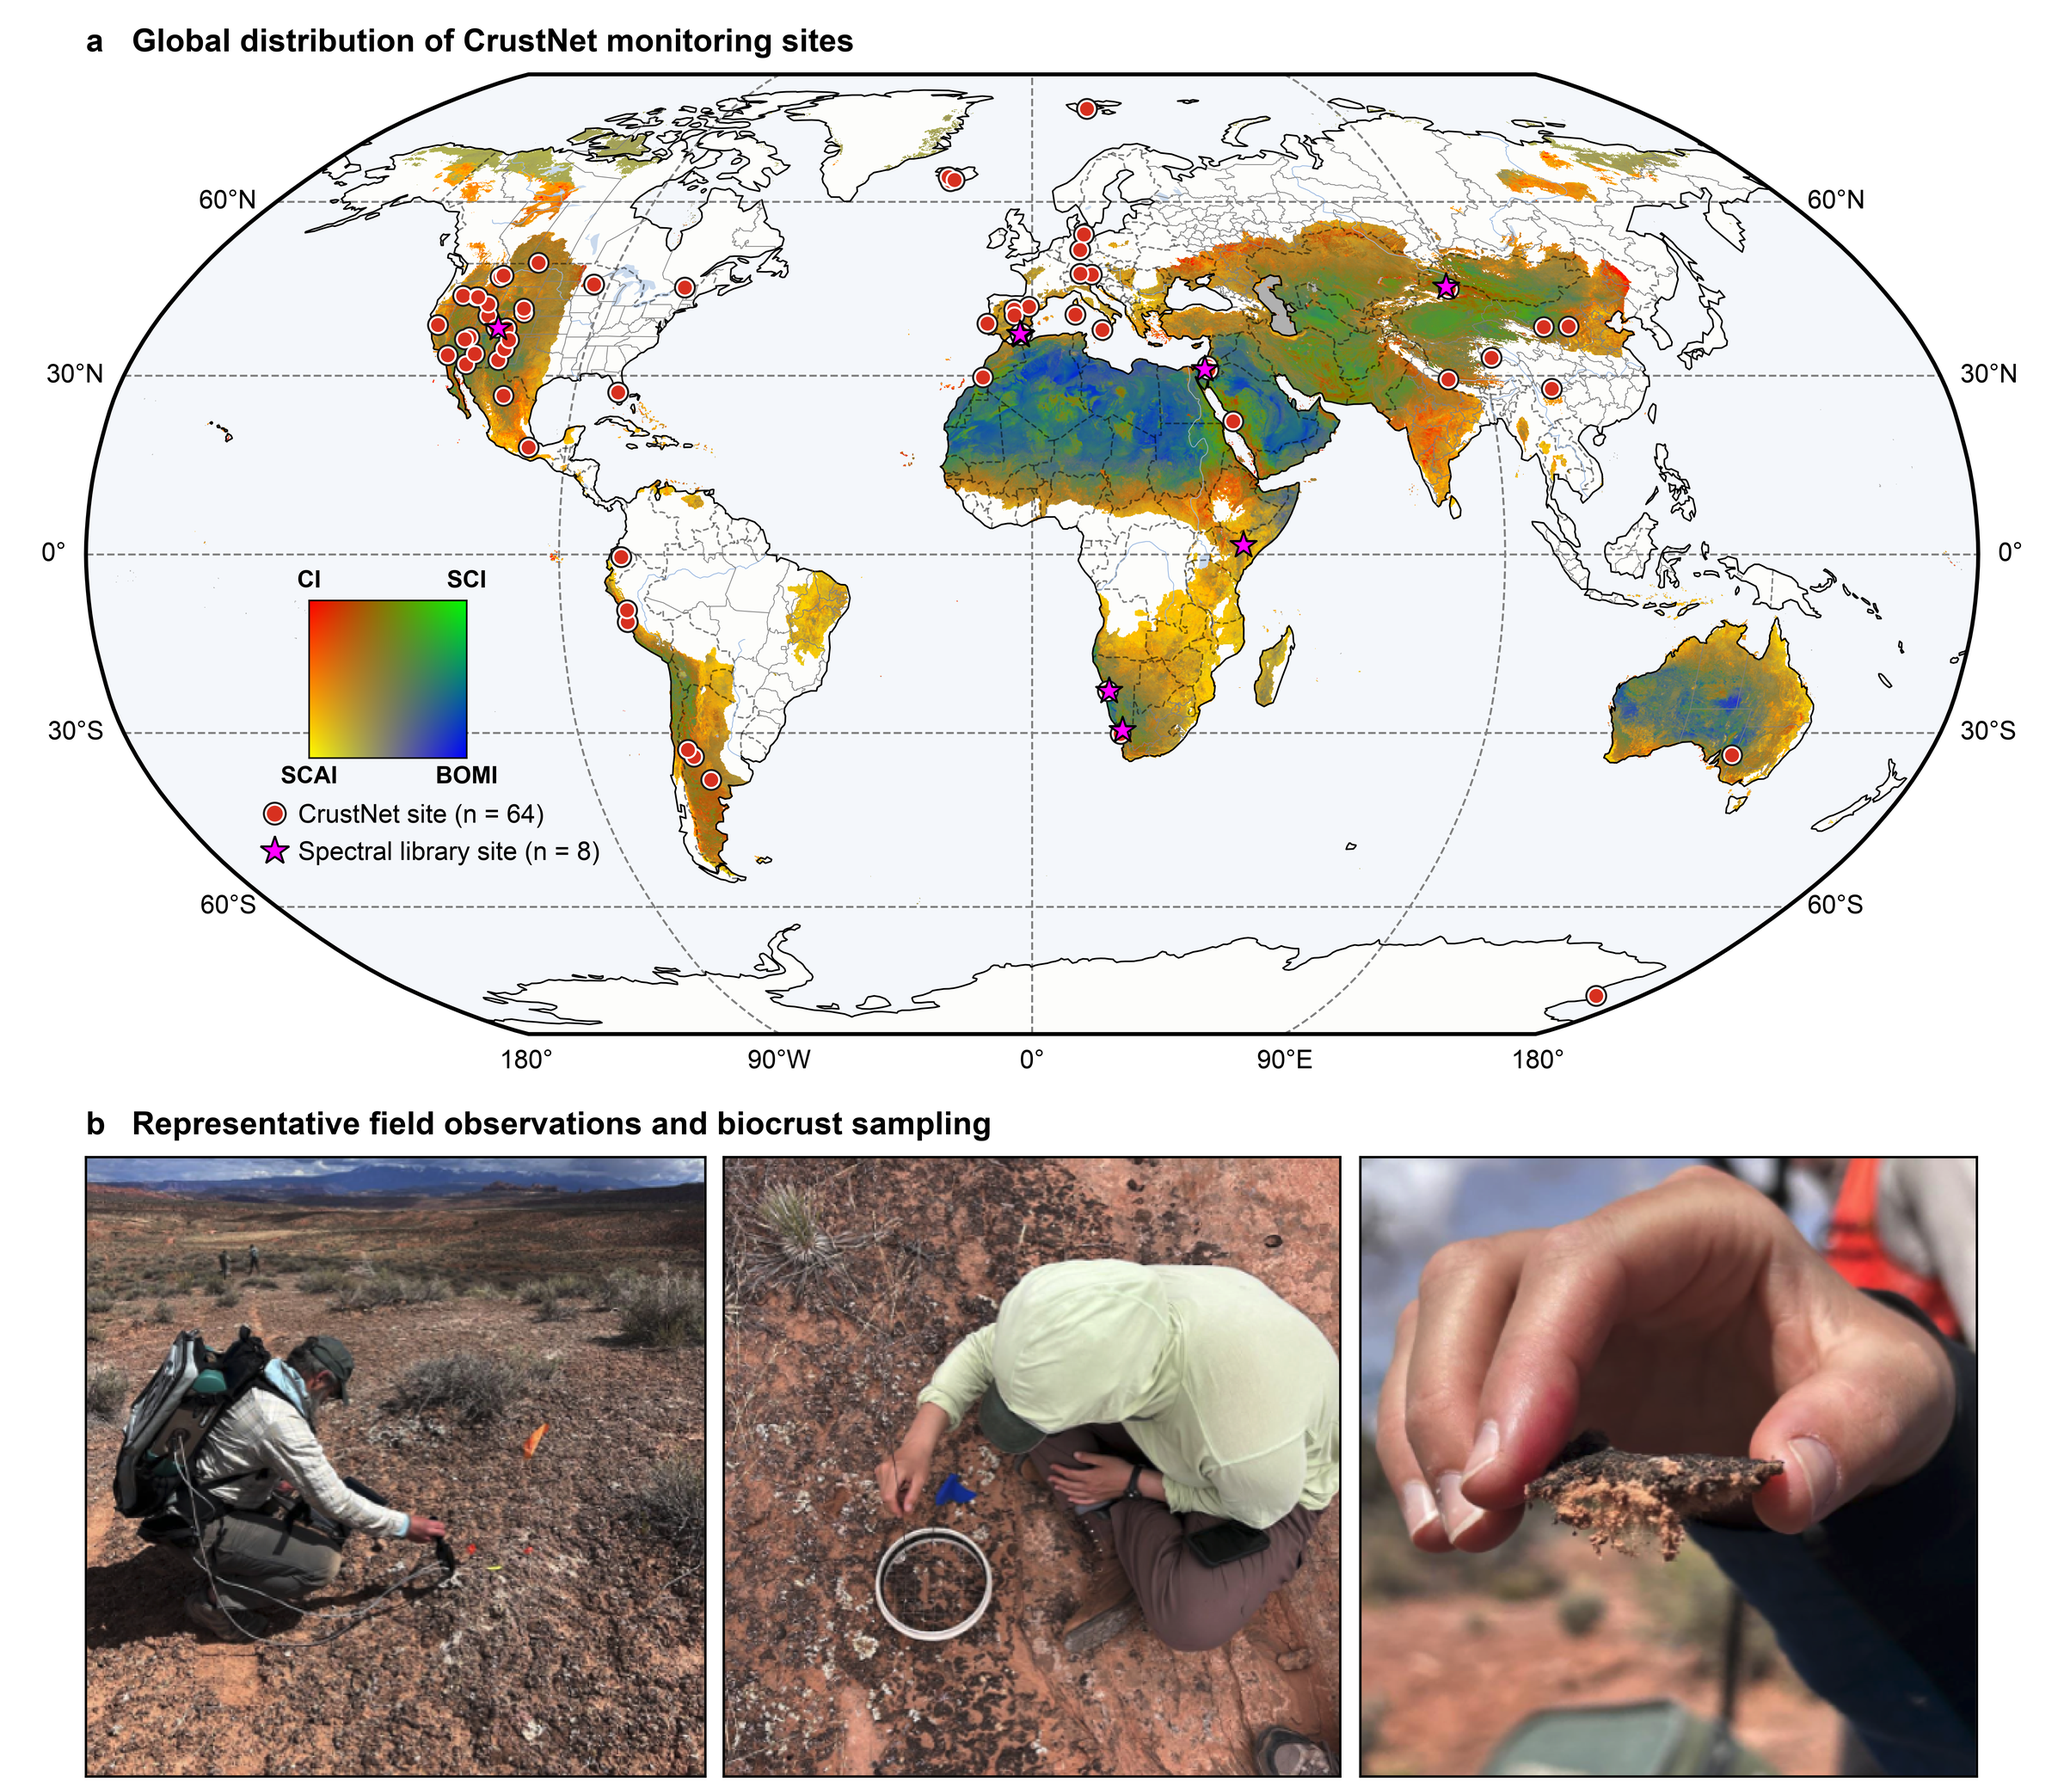
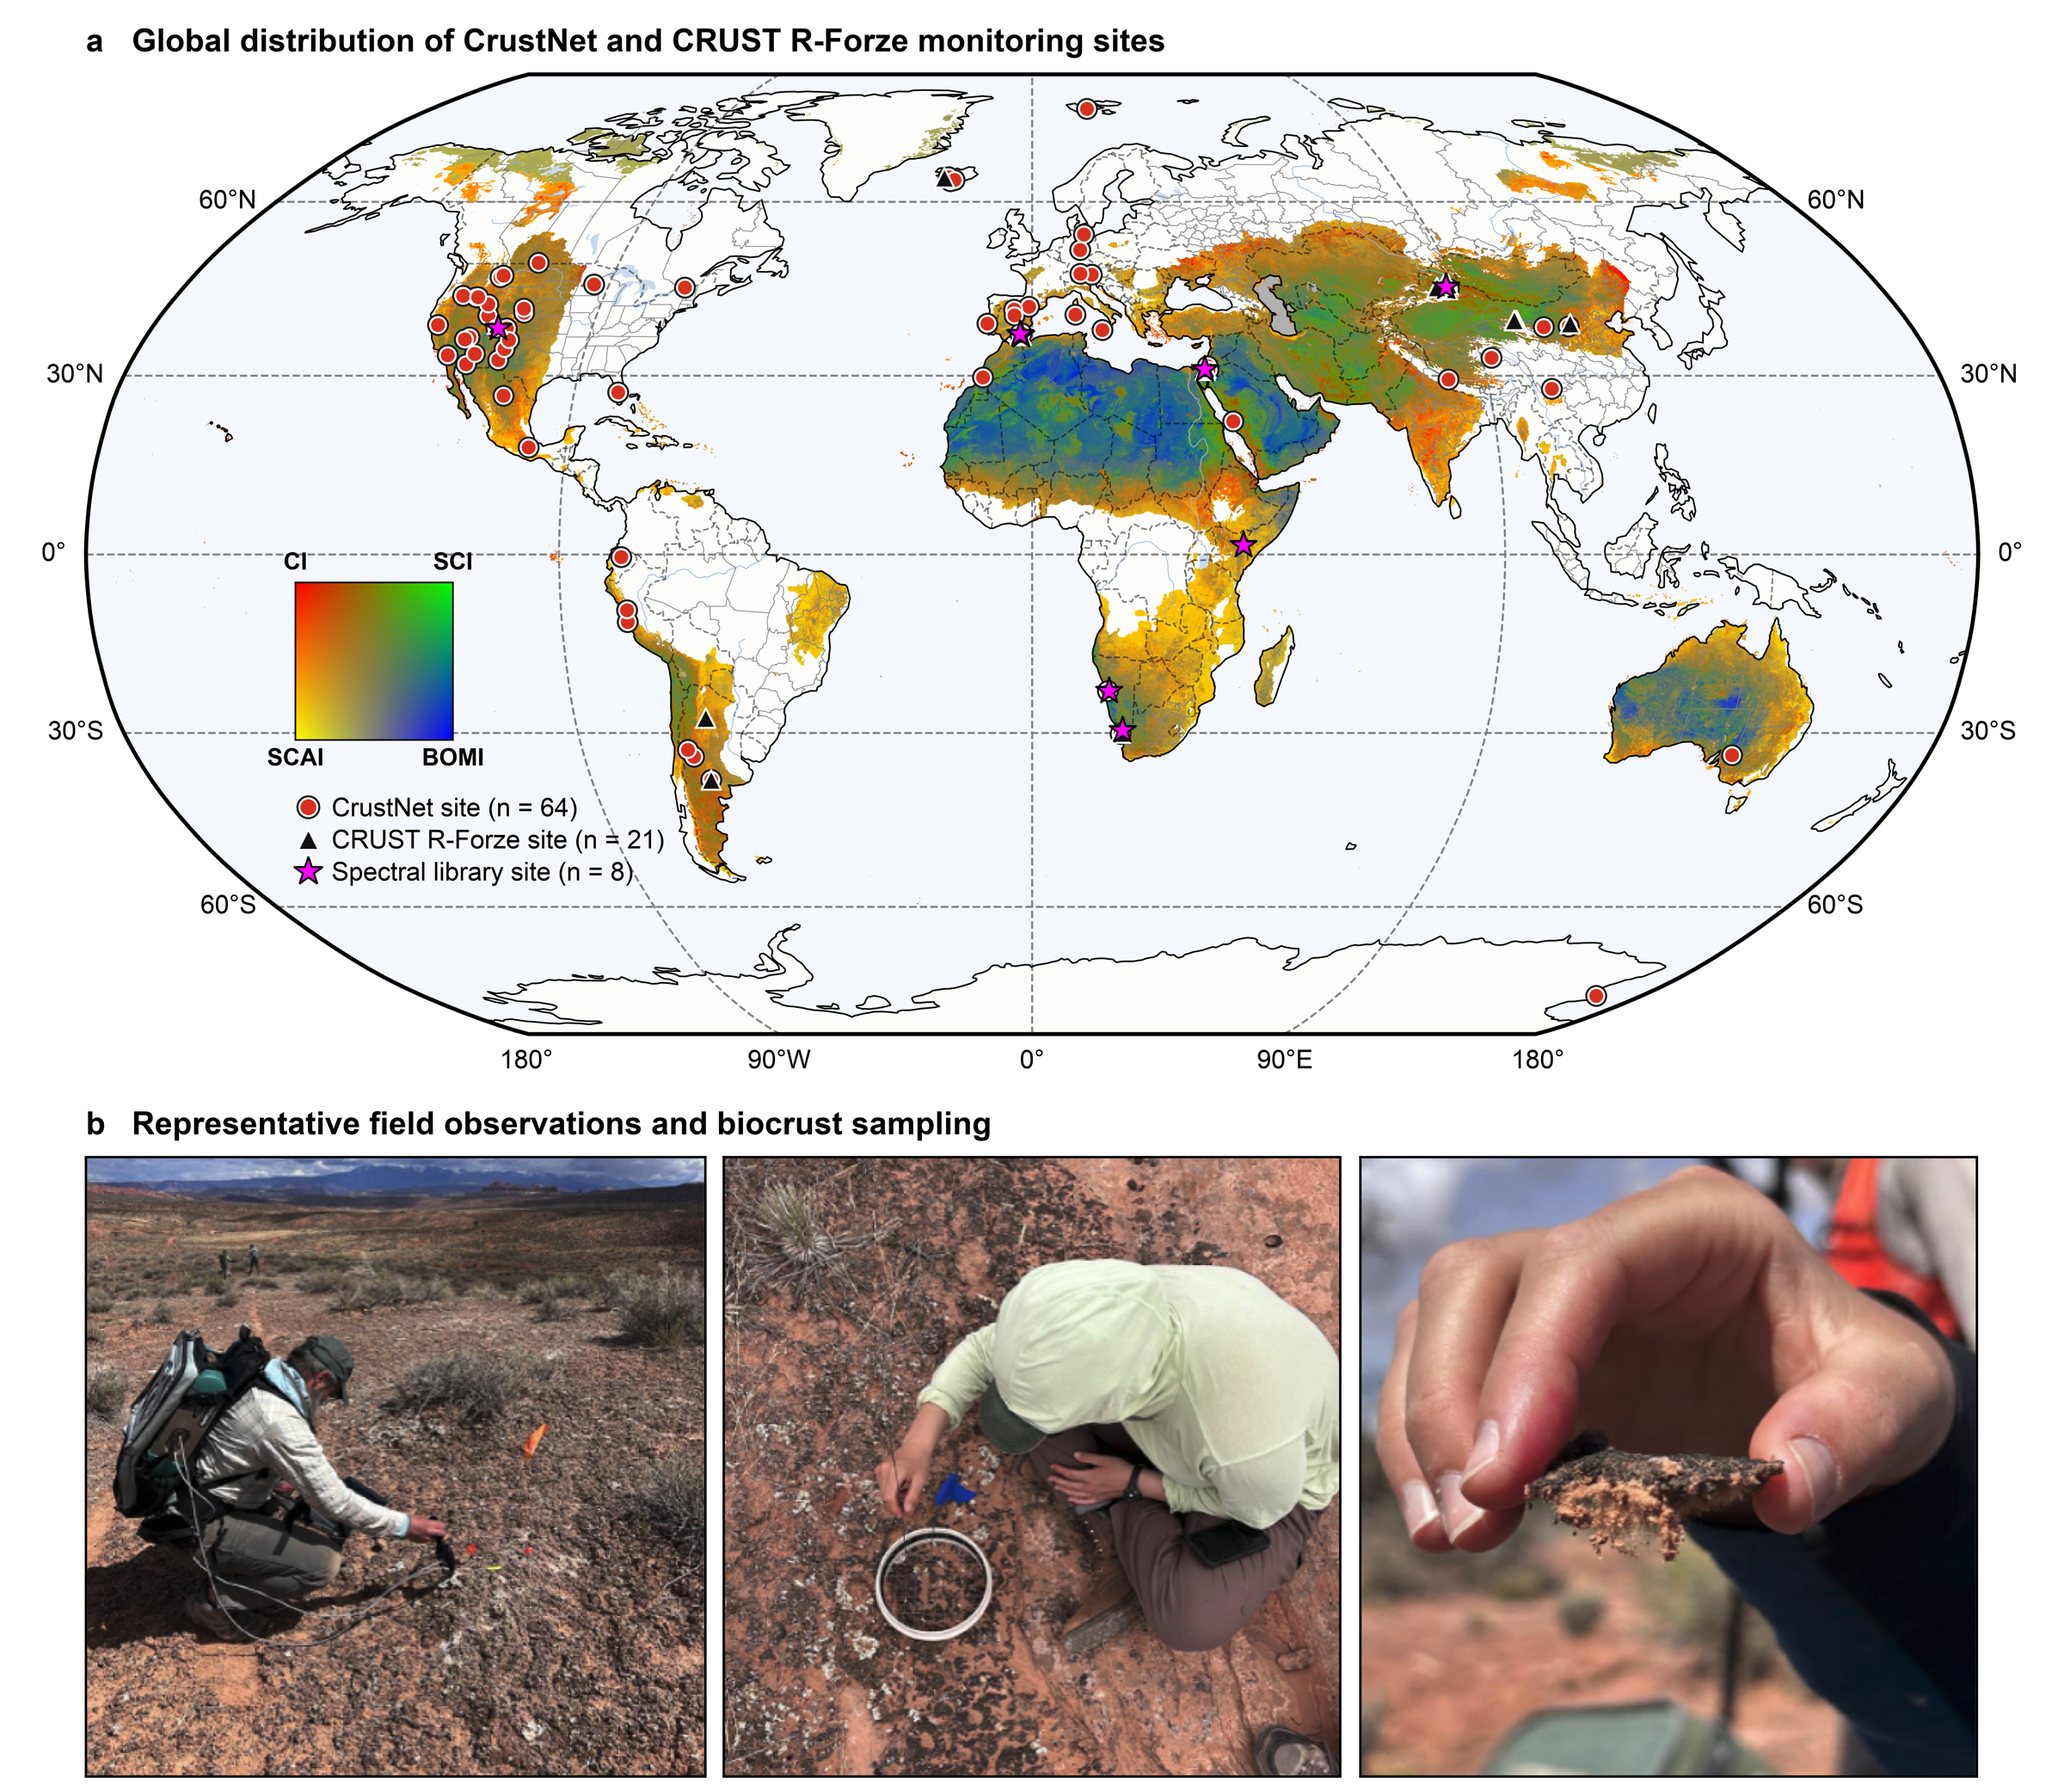
update

Changed region(s): [[0.125, 0.3078, 0.3125, 0.4925], [0.3125, 0.0, 0.5625, 0.0308]]

diff --git a/src_code/plot_fig8.py b/src_code/plot_fig8.py
@@ -1,13 +1,18 @@
-"""Figure 8: global distribution of CrustNet monitoring sites and representative field activities.
+"""Figure 8: global distribution of biocrust monitoring sites and representative field activities.
 
-a  CrustNet sites (n = 64) over the PACE OCI four-index composite of Fig. 5a (May 2025 monthly composite,
-   drylands only, same colour key); all sites are shown, including those outside the drylands
+a  CrustNet sites (n = 64), CRUST R-Forze sites (n = 21) and the spectral-library sites of Fig. 3 over the
+   PACE OCI four-index composite of Fig. 5a (May 2025 monthly composite, drylands only, same colour key);
+   all sites are shown, including those outside the drylands
 b  representative field activities at CrustNet sites (three photographs)
 
 Data:
   1_data/crustnet_sites.csv          site codes and coordinates (columns: code, lat, lon), extracted from the
                                      CrustNet node map (https://crustnet.org/CrustNet_Map5.html -> embedded
                                      leaflet/htmlwidgets payload)
+  1_data/8_Fig8_data/sites_coordinates_library.xlsx
+                                     CRUST R-Forze plots (columns: Country, Site, zone, Longitud, Latitud,
+                                     Altitude); the Moab row is stored with longitude and latitude swapped and
+                                     without the western sign, corrected in RFORZE_FIXES
   PACE composite and dryland mask    read through plot_fig5.py (its display cache), so colours match Fig. 5a
   1_data/8_Fig8_data/image1-3.png    field photographs
 
@@ -20,6 +25,7 @@ import csv
 import os
 
 import numpy as np
+import pandas as pd
 from PIL import Image
 import matplotlib
 matplotlib.use("Agg")
@@ -34,6 +40,9 @@ DATA_DIR = "/Users/jifujiang/Desktop/2_University_of_Arizona/6_perspective_biocr
 PHOTO_DIR = os.path.join(DATA_DIR, "8_Fig8_data")
 FIG_DIR = "/Users/jifujiang/Desktop/2_University_of_Arizona/6_perspective_biocrusts/figures"
 SITES_CSV = os.path.join(DATA_DIR, "crustnet_sites.csv")
+RFORZE_XLSX = os.path.join(PHOTO_DIR, "sites_coordinates_library.xlsx")
+# workbook rows whose coordinates are wrong as stored: site -> (lon, lat)
+RFORZE_FIXES = {"Moab": (-109.683221, 38.720160)}    # stored as lon 38.72, lat 109.68 (swapped, no W sign)
 
 # field photographs: (file, square crop box as fractions of the image (x0, y0, x1, y1))
 PHOTOS = [
@@ -45,8 +54,10 @@ PHOTOS = [
 SITE_COLOR = "#d7301f"
 SITE_EFFECTS = [pe.Stroke(linewidth=1.5, foreground="#1a1a1a"), pe.Normal()]   # dark ring outside the white edge
 LIB_COLOR = "#ff00ff"      # spectral-library sites of Fig. 3: magenta stars
+RFORZE_COLOR = "#111111"   # CRUST R-Forze sites: black triangles
 LIB_SITES = {name: s["lonlat"] for name, s in f3.SITES.items()}
-KEY_AT = (-125, -21)       # lon, lat of the colour key's centre (empty South Pacific); two-line site legend below it
+KEY_AT = (-127, -18)       # lon, lat of the colour key's centre (empty South Pacific); three-line site legend below it
+KEY_LEGEND_GAP = 0.20      # inches between the key's lower labels and the site legend
 
 MM = 1 / 25.4
 FIG_W = 183 * MM
@@ -72,6 +83,21 @@ def read_sites(path):
     with open(path) as f:
         rows = list(csv.DictReader(f))
     return [float(r["lon"]) for r in rows], [float(r["lat"]) for r in rows]
+
+
+def read_rforze(path):
+    """CRUST R-Forze plots as (lons, lats); one row per plot, several plots may share a site."""
+    df = pd.read_excel(path)
+    lons, lats = [], []
+    for _, r in df.iterrows():
+        lon, lat = RFORZE_FIXES.get(r["Site"], (float(r["Longitud"]), float(r["Latitud"])))
+        if r["Site"] in RFORZE_FIXES:
+            print(f"  corrected {r['Site']}: stored ({r['Longitud']}, {r['Latitud']}) -> lon {lon}, lat {lat}")
+        assert -180 <= lon <= 180 and -90 <= lat <= 90, (r["Site"], lon, lat)
+        lons.append(lon)
+        lats.append(lat)
+    print(f"  CRUST R-Forze: {len(lons)} plots at {df['Site'].nunique()} sites in {df['Country'].nunique()} countries")
+    return lons, lats
 
 
 def read_photo(fname, box):
@@ -100,6 +126,7 @@ def main():
     os.makedirs(FIG_DIR, exist_ok=True)
     plt.rcParams.update(NATURE_RC)
     lons, lats = read_sites(SITES_CSV)
+    rf_lons, rf_lats = read_rforze(RFORZE_XLSX)
     photos = [read_photo(f, box) for f, box in PHOTOS]
     rgba, transform, aridity = pace_composite()
 
@@ -112,30 +139,35 @@ def main():
 
     # a: PACE composite over drylands, CrustNet sites on top
     a_bottom = H - HEADING - a_h
-    heading(fig, SIDE, H - HEADING + 0.08, "a", "Global distribution of CrustNet monitoring sites")
+    heading(fig, SIDE, H - HEADING + 0.08, "a", "Global distribution of CrustNet and CRUST R-Forze monitoring sites")
     ax = f5.axes_in(fig, SIDE, a_bottom, a_w, a_h, projection=f5.ROBINSON)
     f5.draw_global(ax, rgba, transform, aridity)
     f5.global_gridlines(fig, ax, size=MAP_LABEL_SIZE)
     ax.spines["geo"].set_linewidth(1.0)
     ax.scatter(lons, lats, transform=f5.PC, s=16, c=SITE_COLOR, edgecolor="white", linewidth=0.5, zorder=8,
                path_effects=SITE_EFFECTS)
+    ax.scatter(rf_lons, rf_lats, transform=f5.PC, s=24, marker="^", c=RFORZE_COLOR, edgecolor="white",
+               linewidth=0.5, zorder=9)
     lib_lons, lib_lats = zip(*LIB_SITES.values())
     ax.scatter(lib_lons, lib_lats, transform=f5.PC, s=48, marker="*", c=LIB_COLOR, edgecolor="black",
-               linewidth=0.5, zorder=9)
+               linewidth=0.5, zorder=10)
     print("  library sites:", ", ".join(LIB_SITES))
 
-    # colour key (same as Fig. 5) in the empty South Pacific, site legend centred below it
+    # colour key (same as Fig. 5) in the empty South Pacific, site legend below it, left-aligned with the key
     key = 0.55
     kx, ky = lonlat_to_inches(ax, *KEY_AT)
     f5.draw_key(f5.axes_in(fig, kx - key / 2, ky - key / 2, key, key), fontsize=6)
     site = Line2D([], [], ls="none", marker="o", markersize=4.5, markerfacecolor=SITE_COLOR,
                   markeredgecolor="white", markeredgewidth=0.5, path_effects=SITE_EFFECTS)
+    rforze = Line2D([], [], ls="none", marker="^", markersize=5.2, markerfacecolor=RFORZE_COLOR,
+                    markeredgecolor="white", markeredgewidth=0.5)
     lib = Line2D([], [], ls="none", marker="*", markersize=7.5, markerfacecolor=LIB_COLOR, markeredgecolor="black",
                  markeredgewidth=0.5)
-    fig.legend(handles=[site, lib],
-               labels=[f"CrustNet site (n = {len(lons)})", f"Spectral library site (n = {len(LIB_SITES)})"],
-               loc="upper center", bbox_to_anchor=((kx + 0.15) / W, (ky - key / 2 - 0.16) / H), frameon=False,
-               handlelength=1.0, handletextpad=0.4, labelspacing=0.5, borderaxespad=0, borderpad=0)
+    fig.legend(handles=[site, rforze, lib],
+               labels=[f"CrustNet site (n = {len(lons)})", f"CRUST R-Forze site (n = {len(rf_lons)})",
+                       f"Spectral library site (n = {len(LIB_SITES)})"],
+               loc="upper left", bbox_to_anchor=((kx - key / 2) / W, (ky - key / 2 - KEY_LEGEND_GAP) / H),
+               frameon=False, handlelength=1.0, handletextpad=0.4, labelspacing=0.3, borderaxespad=0, borderpad=0)
 
     # b: field photographs, aligned with the map
     b_top = a_bottom - LON_LABELS - HEADING
